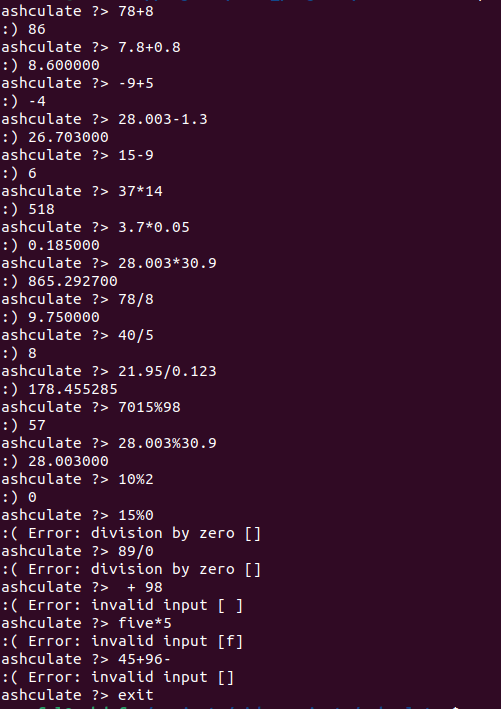
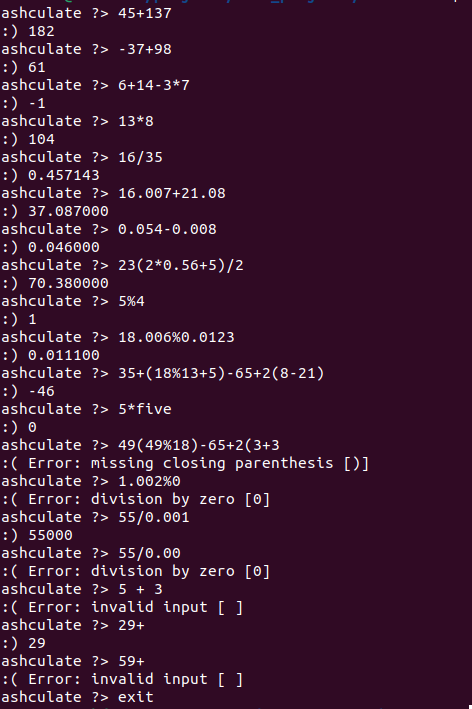
Finalized ASHCulator

diff --git a/ashculator/ashculate_parse.c b/ashculator/ashculate_parse.c
@@ -30,7 +30,7 @@ int processInput(INFO *info)
 	{
 		int_part = (int) ans;
 		dec_part = ans - int_part;
-		
+
 		state = checkDecDigits(dec_part);
 		if (state == 1)
 			printf(":) %f\n", ans);
@@ -38,7 +38,6 @@ int processInput(INFO *info)
 			printf(":) %d\n", int_part);
 	}
 
-	info->result = 0.0;
 	info->index = 0;
 	info->err_code = 0;
 	info->err_input = 0;
@@ -59,13 +58,13 @@ int processInput(INFO *info)
 double handleBrackets(INFO *info, const char *args, int *index)
 {
 	double result;
-	
+
 	if (args[*index] == '(')
 	{
 		(*index)++;
 
 		result = handleAddSub(info, args, index);
-        
+
 		if (args[*index] == ')')
 		{
 			(*index)++;
@@ -81,7 +80,7 @@ double handleBrackets(INFO *info, const char *args, int *index)
 		}
 	}
 	else
-		return handleSubstrToNumber(info, args, index);
+		return (handleSubstrToNumber(info, args, index));
 }
 
 /**
@@ -93,7 +92,21 @@ double handleBrackets(INFO *info, const char *args, int *index)
  */
 double computeResult(INFO *info)
 {
-	return handleAddSub(info, info->args, &info->index);
+	char *p = info->args;
+
+	for (; *p != '\0'; p++)
+	{
+		if (*p == ' ')
+		{
+			info->err_code = ERR_INVALID_INPUT_CODE;
+			info->err_input = *p;
+			info->err_msg = ERR_INVALID_INPUT;
+
+			return (1);
+		}
+	}
+
+	return (handleAddSub(info, info->args, &info->index));
 }
 
 /**
@@ -109,7 +122,7 @@ double handleSubstrToNumber(INFO *info, const char *args, int *index)
 {
 	double result = 0.0, frac = 0.1;
 	int isNegative = 0;
-	
+
 	if (args[*index] == '-')
 	{
 		isNegative = 1;
@@ -122,7 +135,7 @@ double handleSubstrToNumber(INFO *info, const char *args, int *index)
 		result = result * 10.0 + (args[*index] - '0');
 		(*index)++;
 	}
-	
+
 	/* handle digits after the dot in a floating point number */
 	if (args[*index] == '.')
 	{
@@ -134,12 +147,12 @@ double handleSubstrToNumber(INFO *info, const char *args, int *index)
 			(*index)++;
 		}
 	}
-	
+
 	if (isNegative)
 		result = -result;
-	
-	if (args[*index] == '(') 
+
+	if (args[*index] == '(')
 		result *= handleBrackets(info, args, index);
-	
+
 	return (result);
 }

diff --git a/ashculator/ashculate.h b/ashculator/ashculate.h
@@ -1,13 +1,3 @@
-/**
- * file: ashculate.h
- * date created: 25-Dec-2023
- * date updated: 27-Dec-2023
- * author: Emmanuel Enchill
- *
- * description: this file contains the prototypes for all functions
- * of ASHCulator.
- */
-
 #ifndef ASHCULATOR
 #define ASHCULATOR
 
@@ -16,20 +6,13 @@
 #include <string.h>
 #include <ctype.h>
 
-/* maximum length of a line */
-#define BUFFER 1024
-
 /* error messages */
 #define ERR_INVALID_INPUT ":( Error: invalid input"
-#define ERR_BAD_OPERAND ":( Error: invalid operand"
-#define ERR_BAD_OPERATOR ":( Error: invalid operator"
 #define ERR_ZERO_DIVISION ":( Error: division by zero"
 #define ERR_MISSING_PARENTHESIS ":( Error: missing closing parenthesis"
 
 /* error codes */
 #define ERR_INVALID_INPUT_CODE -5
-#define ERR_BAD_OPERAND_CODE -6
-#define ERR_BAD_OPERATOR_CODE -7
 #define ERR_ZERO_DIVISION_CODE -8
 #define ERR_MISSING_PARENTHESIS_CODE -9
 
@@ -37,14 +20,12 @@
 struct var_data
 {
 	/* result of computation */
-	double result;
 	int index;
 
 	/* error message */
 	int err_code;
-	int err_input; /* the input bug */
+	char err_input; /* the input bug */
 	char *err_msg;
-	
 
 	/* user input data */
 	char *args;
@@ -54,7 +35,7 @@ struct var_data
 typedef struct var_data INFO;
 
 /* initializer for struct */
-#define INFO_T_INIT {0.0, 0, 0, 0, NULL, NULL, 0}
+#define INFO_T_INIT {0, 0, 0, NULL, NULL, 0}
 
 /* readLine function */
 ssize_t readLine(INFO *);

diff --git a/ashculator/ashculate_math.c b/ashculator/ashculate_math.c
@@ -2,6 +2,8 @@
 
 /**
  * handleAddSub - implement addition and subtraction computations
+ * @info: a pointer to a space in memory where a struct of data is
+ * stored
  * @args: a pointer to the line of input
  * @index: a pointer to the index of the value
  *
@@ -61,7 +63,7 @@ double handleMulDivMod(INFO *info, const char *args, int *index)
 				if (operand == 0.0)
 				{
 					info->err_code = ERR_ZERO_DIVISION_CODE;
-					info->err_input = operand;
+					info->err_input = '0';
 					info->err_msg = ERR_ZERO_DIVISION;
 
 					return (0);
@@ -73,7 +75,7 @@ double handleMulDivMod(INFO *info, const char *args, int *index)
 				if (operand == 0.0)
 				{
 					info->err_code = ERR_ZERO_DIVISION_CODE;
-					info->err_input = operand;
+					info->err_input = '0';
 					info->err_msg = ERR_ZERO_DIVISION;
 
 					return (0);

diff --git a/ashculator/ashculate.c b/ashculator/ashculate.c
@@ -1,16 +1,3 @@
-/**
- * file: ashculate.c
- * date created: 25-Dec-2023
- * date updated: 27-Dec-2023
- * author: Emmanuel Enchill
- *
- * description: this file contains the main entry point for the
- * application
- *
- * Functions:
- * @main
- */
-
 #include "ashculate.h"
 
 /**
@@ -28,7 +15,7 @@ int main(void)
 		readLine(info);
 		status = processInput(info);
 	} while (status);
-	
+
 	free(info->args);
 
 	return (0);

diff --git a/ashculator/ashculate_misc.c b/ashculator/ashculate_misc.c
@@ -30,11 +30,11 @@ int checkDecDigits(double value)
  */
 double handleModDiv(double value, double operand)
 {
-        double quo, div, ans;
+	double quo, div, ans;
 
-        quo = value / operand;
-        div = (double)((long) quo);
-        ans = value - operand * div;
+	quo = value / operand;
+	div = (double)((long) quo);
+	ans = value - operand * div;
 
-        return (ans);
+	return (ans);
 }

diff --git a/ashculator/ashculate_io.c b/ashculator/ashculate_io.c
@@ -1,16 +1,3 @@
-/**
- * file: ashculate_io.c
- * date created: 25-Dec-2023
- * date updated: 27-Dec-2023
- * author: Emmanuel Enchill
- *
- * description: this file contains functions that perform input
- * and output operations
- *
- * Functions:
- * @readLine
- */
-
 #include "ashculate.h"
 
 /**

diff --git a/ashculator/README.md b/ashculator/README.md
@@ -1,8 +1,14 @@
 # ASHCULATOR
-ASHCulator is a console-based application that performs simple arithmetic computations: addition, subtraction, multiplication, division and modulo. This program does not implement any shell-based command.
+ASHCulator is a console-based application that performs simple arithmetic computations: *addition, subtraction, multiplication, division and modulo*.
+
+## Compilation and Code Quality
+The program was compiled using the **Gnu Compiler Collection (gcc)** program with the following flags:
+- ` -Wall -Werror -Wextra -pedantic -std=gnu89 `
+
+- ` Betty Linter ` was used to check the coding style and construct.
 
 ## Process
-The application executes in a loop. It presents the *ashculator,* **ashculate ?>** to the user for input. When provided with the correct input values, it prints the results **:) <value>** of the computation on the next line. It exits when the user enters **exit**.
+The application executes in a loop. It presents the *ashculator,* **ashculate ?>** to the user for input. When provided with the correct input values, it prints the results **:) <value>** of the computation on the next line. When provided with invalid input, an error message is printed, **:( <error message>.** It quits when the user enters **exit**.
 
 ## Flowchart
 The following image shows the high level execution process for the application
@@ -13,5 +19,16 @@ The screenshot below shows the **ASHCulator** in use to perform basic arithmetic
 <br /><img src="img/ashculate_process.png" alt="ashculate process"><br />
 
 ## Issues
-The suspension issue has been resolved. However, the following are the current issues:
-- Fails to handle blanks and texts inputs
+Based on the test cases as seen in the execution process image above, no issues were detected at the moment. However, when texts are supplied as operands, it prints zero as the answer, which can be seen from the execution process image. Aside from this, there are currently no known bugs.
+
+## Executing ASHCulator
+The program was developed on Ubuntu 22.04 system and has not yet been tested on other operating systems. To run ASHCulator on computer, follow these instructions:
+- Clone the repository to your local machine.
+- Extract the contents of the file to your desired location.
+- Delete the ` ashculate ` object file as that was used for testing purposes.
+- Compile the program using ` gcc -Wall -Werror -Wextra -pedantic -std=gnu89 *.c -o ashculate `. You can choose a different name for your object file instead of **ashculate.**
+- Execute the program using ` ./ashculate `
+- Enjoy
+
+## Reporting Errors/Bugs/Issues
+This is a portfolio project, and as an effort to advance my knowledge and experience in the **C Programming Language.** Should you detect any form of bug, kindly message me via any of contacts. Thank you.
